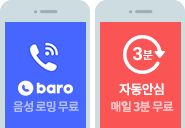
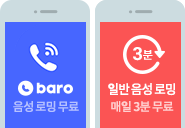
Web Contents Merge

Changed region(s): [[0.5676, 0.625, 0.9459, 0.75]]

diff --git a/src/client/web-contents/html/sprint/RM_19.html b/src/client/web-contents/html/sprint/RM_19.html
@@ -72,10 +72,10 @@
 										</ul>
 										<div class="tab-contents show gs-orange">
 											<div class="gs-info-wrap">
-												<p class="idpt-gs-title">괌/사이판 여행 대표 요금제1<br><strong>T괌사이판 국내처럼</strong></p>
+												<p class="idpt-gs-title">괌&middot;사이판 여행 대표 요금제1<br><strong>T괌사이판 국내처럼</strong></p><!-- 190521 수정 -->
 												<p class="idpt-gs-txt">※ 19년 1월 17일(목)부터 ‘T로밍 괌사이판패스’가 ‘T괌사이판 국내처럼’으로 명칭이
 												변경 되었습니다.</p>
-												<p class="idpt-gs-txt">괌/사이판에서 지정한 날(시작일)부터 30일 동안, <span>국내 가입 요금제의 기본제공 데이터를
+												<p class="idpt-gs-txt">괌&middot;사이판에서 지정한 날(시작일)부터 30일 동안, <span>국내 가입 요금제의 기본제공 데이터를<!-- 190521 수정 -->
 												그대로 사용</span>하실 수 있는 요금제입니다.</p>
 												<p class="idpt-gs-point">출국 후 가입해도 동일하게 이용하실 수 있습니다.</p>
 												<ul class="idpt-gs-list">
@@ -88,14 +88,14 @@
 													<li class="gs-list-02">
 													<div>
 														<p class="gs-list-title">음성</p>
-														<p class="gs-list-txt">baro 이용 시 음성 로밍 무료(단, 제3국 발신 제외)</p>
+														<p class="gs-list-txt">baro 통화 이용 시 음성 로밍 무료(단, 제3국 발신 제외)</p><!-- 190521 수정(baro 통화 수정) -->
 														<p class="gs-list-refer">※ 일반 음성 로밍 이용 시 매일 3분 무료</p>
 													</div>
 													</li>
 													<li class="gs-list-03">
 													<div>
 														<p class="gs-list-title">문자</p>
-														<p class="gs-list-txt">SMS/MMS 기본제공</p>
+														<p class="gs-list-txt">SMS&middot;MMS 기본제공</p><!-- 190521 수정 -->
 													</div>
 													</li>
 												</ul>
@@ -128,13 +128,13 @@
 														속도로 계속 이용</strong>
 													</td>
 													<td>
-														<strong>데이터 사용량/속도 제한 없이 완전 무제한으로 이용</strong>
+														<strong>데이터 사용량&middot;속도 제한 없이 완전 무제한으로 이용</strong><!-- 190521 수정 -->
 													</td>
 												</tr>
 												<tr>
 													<th scope="row">음성통화</th>
 														<td colspan="3">
-														<strong>baro를 이용하면 로밍 음성통화 무료(단, 제3국 발신
+														<strong>baro 통화를 이용하면 로밍 음성통화 무료(단, 제3국 발신<!-- 190521 수정(baro 통화 수정) -->
 														제외)</strong><br><span style="font-size:11px;color:#666">※
 														<strong>일반 로밍 음성통화를 이용할 경우 매일 3분 무료 통화</strong> 제공, 이후
 														<strong>1.98원/초(국내 통화요금과 같음)</strong></span>
@@ -143,7 +143,7 @@
 												<tr>
 													<th scope="row">문자</th>
 														<td colspan="3">
-														SMS/MMS <strong>기본제공</strong>
+														SMS&middot;MMS <strong>기본제공</strong><!-- 190521 수정 -->
 													</td>
 												</tr>
 												</tbody>
@@ -154,8 +154,8 @@
 										</div>
 										<div class="tab-contents gs-red">
 											<div class="gs-info-wrap">
-												<p class="idpt-gs-title">괌/사이판 여행 대표 요금제2<br><strong>T괌사이판 5천원</strong></p>
-												<p class="idpt-gs-txt">괌/사이판에서 국내 가입 요금제의 데이터를 쓰고 싶지 않거나, 남은 데이터가 없는 고객님을 위해,
+												<p class="idpt-gs-title">괌&middot;사이판 여행 대표 요금제2<br><strong>T괌사이판 5천원</strong></p><!-- 190521 수정 -->
+												<p class="idpt-gs-txt">괌&middot;사이판에서 국내 가입 요금제의 데이터를 쓰고 싶지 않거나, 남은 데이터가 없는 고객님을 위해,<!-- 190521 수정 -->
 												<span>10일 동안 5,000원(부가세 포함)으로 매일 LTE/3G 데이터 500MB(다 쓰면 속도제어)</span>를 저렴하게
 												사용하실 수 있는 요금제입니다.</p>
 												<ul class="idpt-gs-list">
@@ -168,14 +168,14 @@
 													<li class="gs-list-02">
 														<div>
 															<p class="gs-list-title">음성</p>
-															<p class="gs-list-txt">baro 이용 시 음성 로밍 무료(단, 제3국 발신 제외)</p>
+															<p class="gs-list-txt">baro 통화 이용 시 음성 로밍 무료(단, 제3국 발신 제외)</p><!-- 190521 수정(baro 통화 수정) -->
 															<p class="gs-list-refer">※ 일반 음성 로밍 이용 시 매일 3분 무료</p>
 														</div>
 													</li>
 													<li class="gs-list-03">
 														<div>
 															<p class="gs-list-title">문자</p>
-															<p class="gs-list-txt">SMS/MMS 기본제공</p>
+															<p class="gs-list-txt">SMS&middot;MMS 기본제공</p><!-- 190521 수정 -->
 														</div>
 													</li>
 												</ul>
@@ -203,12 +203,12 @@
 												<tr>
 													<th scope="row">음성통화</th>
 														<td>
-														<strong>baro를 이용하면 로밍 음성통화 무료(단, 제3국 발신 제외)</strong><br><span style="font-size:11px;color:#666">※ <strong>일반 로밍 음성통화를 이용할 경우 매일 3분 무료 통화</strong> 제공, 이후 <strong>1.98원/초(국내 통화요금과 같음)</strong></span>
+														<strong>baro 통화를 이용하면 로밍 음성통화 무료(단, 제3국 발신 제외)</strong><br><span style="font-size:11px;color:#666">※ <strong>일반 로밍 음성통화를 이용할 경우 매일 3분 무료 통화</strong> 제공, 이후 <strong>1.98원/초(국내 통화요금과 같음)</strong></span><!-- 190521 수정(baro 통화 수정) -->
 													</td>
 												</tr>
 												<tr>
 													<th scope="row">문자</th>
-													<td>SMS/MMS <strong>기본제공</strong></td>
+													<td>SMS&middot;MMS <strong>기본제공</strong></td><!-- 190521 수정 -->
 												</tr>
 												</tbody>
 												</table>

diff --git a/src/client/web-contents/html/sprint/HO_04_01_02_03.html b/src/client/web-contents/html/sprint/HO_04_01_02_03.html
@@ -1,0 +1,116 @@
+<!DOCTYPE html>
+<html lang="ko">
+<head>
+    <meta http-equiv="Content-Type" content="text/html; charset=UTF-8" />
+    <meta name="viewport" content="width=device-width, initial-scale=1.0, maximum-scale=1.0, minimum-scale=1.0, user-scalable=no" />
+    <meta name="apple-mobile-web-app-capable" content="yes" />
+    <meta name="apple-mobile-web-app-status-bar-style" content="black" />
+    <meta name="format-detection" content="telephone=no, address=no, email=no" />
+    <link rel="shortcut icon" href="/img/common/favicon.ico" />
+    <link rel="shortcut icon" href="/img/common/favicon.png" />
+    <link rel="apple-touch-icon" href="/img/common/favicon.png" />
+    <meta name="description" content="페이지설명" />
+    <meta name="keywords" content="서비스키워드" />
+    <meta property="og:title" content="SKT 홈페이지" />
+    <meta property="og:site_name" content="SKT" />
+    <meta property="og:image" content="/image/common/skt_facebook.jpg" />
+    <meta property="og:description" content="SKT framework" />
+    <title>SKT</title>
+    <link rel="stylesheet" type="text/css" href="/css/common.css" media="all" /><!-- [C] 공통 스타일 -->
+    <link rel="stylesheet" type="text/css" href="/css/layout.css" media="all" /><!-- [C] 박스 모델 -->
+    <link rel="stylesheet" type="text/css" href="/css/widgets.css" media="all" /><!-- [C] 기능별 위젯 -->
+    <link rel="stylesheet" type="text/css" href="/css/components.css" media="all" /><!-- [C] 단락별 컴퍼넌트 -->
+    <script type="text/javascript" src="/lib/jquery-1.12.3.min.js"></script><!--[C] jquery API-->
+    <script type="text/javascript" src="/lib/handlebars-v4.0.5.js"></script><!--[C] handlebars tmpl API-->
+    <script type="text/javascript" src="/lib/slick.js"></script><!--[C] slick API -->
+    <script type="text/javascript" src="/js/$vars.js"></script><!--[C] 전역 변수 -->
+    <script type="text/javascript" src="/js/common.js"></script><!--[C] 공통 기능 -->
+    <script type="text/javascript" src="/js/widgets.js"></script><!--[C] 기능별 위젯 -->
+    <script type="text/javascript" src="/js/chart.js"></script><!-- [C] 차트 -->
+</head>
+<body>
+    <!-- #skip_navigation -->
+    <div id="skipNav" class="skip_navi">
+        <ul>
+            <li><a href="#contents">본문 바로가기</a></li>
+        </ul>
+    </div>
+    <!--// #skip_navigation -->
+    <div class="wrap">
+        <!-- #header -->
+        <div id="header" class="header-wrap">
+        </div>
+        <!--// #header -->
+        <!-- #contents -->
+        <div id="contents" class="container-wrap">
+            <div class="container">
+            </div>
+        </div>
+        <!--// #contents -->
+		<!-- .popup hbs -->
+		<div class="popup-page tw-popup"><!-- 하단에 fixed 버튼으로 여백이 필요할때 .fixed-bottom 기본60여백 / 높이 30단위 class 지원 .h30, .h60, .h90 ... -->
+			<!-- #header -->
+			<div class="header-wrap">
+				<div class="page-header">
+					<div class="header-ti">
+                        <h1>대상 매장</h1>
+                    </div>
+				</div>
+			</div>
+			<!--// #header -->
+			<!-- .container-wrap -->
+			<div class="container-wrap">
+				<div class="container">
+					<hr class="cont-sp type1" aria-hidden="true">
+
+					<!-- cont-box -->
+					<div class="cont-box nogaps-hoz">
+						<!-- .shop-info -->
+						<div class="shop-info">
+							<!-- .shop-txt -->
+							<div class="shop-txt">
+								<ul>
+									<li>
+										<dl class="type02">
+											<dt>신사대리점 직영점</dt>
+											<dd>서울시 중구 만리재로 175, 상가2동 102호<br />(만리동 2가 37-2)<button class="bt-tel"><span role="img" class="blind">매장으로 전화하기</span></button></dd>
+										</dl>
+									</li>
+									<li>
+										<dl class="type02">
+											<dt>에스알대리점 모란직영점(수진-태평점)</dt>
+											<dd>서울 관악구 관악로 201<br />(봉천동 859-40)<button class="bt-tel"><span role="img" class="blind">매장으로 전화하기</span></button></dd>
+										</dl>
+									</li>
+									<li>
+										<dl class="type02">
+											<dt>아이티모바일대리점 수원탑동점</dt>
+											<dd>서울시 양천구 목동동로 379, 106호<br />(목동 907-17)<button class="bt-tel"><span role="img" class="blind">매장으로 전화하기</span></button></dd>
+										</dl>
+									</li>
+								</ul>
+							</div>
+							<!-- // .shop-txt -->
+						</div>
+						<!-- // .shop-info -->
+					</div>
+					<!-- // cont-box -->
+
+					<!-- .cont-box -->
+					<div class="cont-box nogaps noborder">
+						<div class="bt-more bg-none">
+							<button role="button">더 보기</button>
+						</div>
+					</div>
+					<!-- // .cont-box -->
+				</div>
+			</div>
+            <!--// .container-wrap -->
+            <!-- .popup-closeBtn -->
+            <button class="popup-closeBtn"><span class="blind">팝업 페이지 닫기</span></button>
+            <!--// .popup-closeBtn -->
+		</div>
+		<!--// .popup hbs -->
+    </div>
+</body>
+</html>

diff --git a/src/client/web-contents/html/sprint/mTL1.1.41.html b/src/client/web-contents/html/sprint/mTL1.1.41.html
@@ -1,6 +1,5 @@
 <!DOCTYPE html>
 <html lang="ko">
-
 <head>
     <meta http-equiv="Content-Type" content="text/html; charset=UTF-8" />
     <meta name="viewport" content="width=device-width, initial-scale=1.0, maximum-scale=1.0, minimum-scale=1.0, user-scalable=no" />
@@ -16,25 +15,25 @@
     <meta property="og:site_name" content="SKT" />
     <meta property="og:image" content="/image/common/skt_facebook.jpg" />
     <meta property="og:description" content="SKT framework" />
-    <title>SKT</title>
-    <link rel="stylesheet" type="text/css" href="/css/common.css" media="all" /><!-- [C] 공통 스타일 -->
-    <link rel="stylesheet" type="text/css" href="/css/layout.css" media="all" /><!-- [C] 박스 모델 -->
-    <link rel="stylesheet" type="text/css" href="/css/widgets.css" media="all" /><!-- [C] 기능별 위젯 -->
-    <link rel="stylesheet" type="text/css" href="/css/components.css" media="all" /><!-- [C] 단락별 컴퍼넌트 -->
-    <script type="text/javascript" src="/lib/jquery-1.12.3.min.js"></script><!--[C] jquery API-->
-    <script type="text/javascript" src="/lib/handlebars-v4.0.5.js"></script><!--[C] handlebars tmpl API-->
-    <script type="text/javascript" src="/lib/slick.js"></script><!--[C] iscroll API -->
-    <script type="text/javascript" src="/js/$vars.js"></script><!--[C] 전역 변수 -->
-    <script type="text/javascript" src="/js/common.js"></script><!--[C] 공통 기능 -->
-    <script type="text/javascript" src="/js/widgets.js"></script><!--[C] 기능별 위젯 -->
-    <script type="text/javascript" src="/js/chart.js"></script><!-- [C] 단락별 컴퍼넌트 -->
+    <title>내가고른패키지 이벤트 | T world</title>
+    <style>
+        /*Default set*/
+        html, body, form, div, p, h1, h2, h3, h4, h5, h6, dl, dt, dd, ul, ol, li, fieldset, a, button, input, textarea, table, th, td, figure, hr, i, b {margin:0; padding:0; font-weight:400; -webkit-text-size-adjust:none; font-family:"Apple SD Gothic Neo", "애플 SD 산돌고딕 Neo", "Roboto", "Noto Sans KR",  sans-serif; font-style:normal; }
+        /* 190516 이벤트 공통 CSS */
+        .tod-eventDetail {padding-bottom:1.25rem;}
+        .tod-eventDetail .inner {margin:0.9375rem; padding:1.25rem; border:1px solid #ddd; background:#fff}
+        .tod-eventDetail .evtImg img {width:100%; vertical-align:top}
+        .tod-eventDetail .evtImg > a {display:block}
+        .tod-eventDetail .evtBtnBox {text-align:center; vertical-align:middle; -webkit-box-sizing:border-box; -moz-box-sizing:border-box; box-sizing:border-box; overflow:hidden;}
+        .tod-eventDetail .evtBtnL, .tod-eventDetail .evtBtnL2, .tod-eventDetail .evtBtnL.btnWhite, .tod-eventDetail .evtBtnL.btnWhite2 {display:inline-block; width:100%; height:2.1875rem; line-height:2.1875rem; font-size:1.0625rem; letter-spacing:-0.0625rem; text-decoration:none !important;}
+        .tod-eventDetail .evtBtnRed {background:#ea002c; border: 0 none; color:#fff !important;}
+        .tod-eventDetail .blind {position:absolute !important; width:1px; height:1px; margin:-1px; clip:rect(0,0,0,0); overflow:hidden; color:transparent;}
+    </style>
 </head>
-
-
 <body>
-<div class="tod-eventDetail2" style="padding:0">
+<div class="tod-eventDetail" style="padding:0">
     <h1 class="blind">내가고른패키지 이벤트</h1>
-    <div class="tod-evtImg tod-psr tod-center" style="padding:0 0 45px">
+    <div class="evtImg" style="position:relative; padding:0 0 2.8125rem">
         <div>
             <img src="/img/event/img_event_mTL1.1.41_1.png" alt="내가고른패키지 (다음 상세내용 참조)">
             <div class="blind">
@@ -118,8 +117,8 @@
 
         <div style="position:relative;">
             <img src="/img/event/img_event_mTL1.1.34_5.png" alt="T가족모아 결합하면 데이터에 추가혜택까지! 내가고른패키지는, 내가 필요하고 원하는 상품만 골라 한 번에 가입할 수 있고 평균 25%의 파격적인 할인혜택을 받을 수 있습니다! 지금 바로, SK텔레콤 매장에 방문하셔서 상담을 받아보세요!">
-            <div class="tod-btnBox" style="position:absolute;right:0;bottom:0;width:100%;padding:0 15px;text-align:center">
-                <a href="tel:18000212" class="tod-btnL tod-btnRed" style="width:100%;font-size:12px;font-weight:bold"><span class="tod-fBd">상담하기(1800-0212)</span></a>
+            <div class="evtBtnBox" style="position:absolute;right:0;bottom:0;width:100%;padding:0 0.9375rem;text-align:center">
+                <a href="tel:18000212" class="evtBtnL evtBtnRed" style="width:100%;font-size:0.75rem;font-weight:bold"><span>상담하기(1800-0212)</span></a>
             </div>
         </div>
 

diff --git a/src/client/web-contents/html/sprint8/RM_16_01.html b/src/client/web-contents/html/sprint8/RM_16_01.html
@@ -163,7 +163,7 @@
                                             <div class="acco-cont">
                                                 <ul class="list-dot">
                                                 	<!-- 190521 수정 -->
-                                                    <li class="list"><strong class="fColor1">&lt;baro 무료 체험 프로모션!&gt;</strong><br>데이터 로밍 요금제를 가입하지 않고 해외에 가셔도 baro를 무료로 체험하실 수 있습니다.<br>해외에서 한국으로 약 20분 동안의 무료 통화를 체험해보세요.<br><span class="fColor1">*데이터 10MB(400kbps 이하 속도)가 제공되며 다 쓰면 데이터는 자동으로 차단됩니다.</span><br><br><strong class="fColor1">※ 프로모션 기간: 2019년 4월 2일(화)~2019년 6월 30일(일)</strong></li>
+                                                    <li class="list"><strong class="fColor1">&lt;baro 무료 체험 프로모션!&gt;</strong><br>데이터 로밍 요금제를 가입하지 않고 해외에 가서도 baro를 무료로 체험하실 수 있습니다.<br>해외에서 한국으로 약 20분 동안의 무료 통화를 체험해보세요.<br><span class="fColor1">*데이터 10MB(400kbps 이하 속도)가 제공되며 다 쓰면 데이터는 자동으로 차단됩니다.</span><br><br><strong class="fColor1">※ 프로모션 기간: 2019년 4월 2일(화)~2019년 6월 30일(일)</strong></li>
                                                     <li class="list">로밍 중 데이터 사용을 원치 않으시면 데이터 로밍 차단 부가서비스를 가입해주세요.</li>
                                                     <!-- // 190521 수정 -->                                                    
                                                 </ul>
@@ -337,7 +337,7 @@
                                                  <ul class="list-dot">
                                                     <li class="list">데이터로밍은 전세계 패킷(0.5KB)당 0.275원(부가세 포함)으로 단일화되었습니다.</li>
                                                     <!-- 190521 수정 -->
-                                                    <li class="list"><strong class="fColor1">&lt;baro 무료 체험 프로모션!&gt;</strong><br>데이터 로밍 요금제를 가입하지 않고 해외에 가셔도 baro를 무료로 체험하실 수 있습니다.<br>해외에서 한국으로 약 20분 동안의 무료 통화를 체험해보세요.<br><span class="fColor1">*데이터 10MB(400kbps 이하 속도)가 제공되며 다 쓰면 데이터는 자동으로 차단됩니다.</span><br><br><strong class="fColor1">※ 프로모션 기간: 2019년 4월 2일(화)~2019년 6월 30일(일)</strong></li>
+                                                    <li class="list"><strong class="fColor1">&lt;baro 무료 체험 프로모션!&gt;</strong><br>데이터 로밍 요금제를 가입하지 않고 해외에 가서도 baro를 무료로 체험하실 수 있습니다.<br>해외에서 한국으로 약 20분 동안의 무료 통화를 체험해보세요.<br><span class="fColor1">*데이터 10MB(400kbps 이하 속도)가 제공되며 다 쓰면 데이터는 자동으로 차단됩니다.</span><br><br><strong class="fColor1">※ 프로모션 기간: 2019년 4월 2일(화)~2019년 6월 30일(일)</strong></li>
                                                     <li class="list">전세계 주요국에서 baro OnePass 300 요금제를 이용하실 수 있습니다. 해당 국가 여행 시 데이터로밍이 필요할 경우 요금제를 가입하여 이용하시면 안심하고 저렴하게 이용하실 수 있습니다.</li>
                                                     <!-- // 190521 수정 -->
                                                 </ul>

diff --git a/src/client/web-contents/html/sprint8/RM_16_04.html b/src/client/web-contents/html/sprint8/RM_16_04.html
@@ -143,7 +143,7 @@
                                                 	<!-- 190521 수정  -->
                                                     <li class="mt0">데이터로밍 요금제 전세계 패킷당 0.275원!! (부가세 포함, 1패킷 = 512byte = 0.5kbyte)</li>                                                    
                                                     <li>대상: 전체 데이터로밍 이용 가능 국가, 전체 휴대폰 및 무선 인터넷 서비스 대상</li>
-                                                    <li><strong class="fColor1">&lt;baro 무료 체험 프로모션!&gt;</strong><br>데이터 로밍 요금제를 가입하지 않고 해외에 가셔도 baro를 무료로 체험하실 수 있습니다.<br>해외에서 한국으로 약 20분 동안의 무료 통화를 체험해보세요.<br><span class="fColor1">*데이터 10MB(400kbps 이하 속도)가 제공되며 다 쓰면 데이터는 자동으로 차단됩니다.</span><br><br><strong class="fColor1">※ 프로모션 기간: 2019년 4월 2일(화)~2019년 6월 30일(일)</strong></li>                                              
+                                                    <li><strong class="fColor1">&lt;baro 무료 체험 프로모션!&gt;</strong><br>데이터 로밍 요금제를 가입하지 않고 해외에 가서도 baro를 무료로 체험하실 수 있습니다.<br>해외에서 한국으로 약 20분 동안의 무료 통화를 체험해보세요.<br><span class="fColor1">*데이터 10MB(400kbps 이하 속도)가 제공되며 다 쓰면 데이터는 자동으로 차단됩니다.</span><br><br><strong class="fColor1">※ 프로모션 기간: 2019년 4월 2일(화)~2019년 6월 30일(일)</strong></li><!-- 190521 수정(추가) -->                                              
                                                     <!-- // 190521 수정 -->
                                                 </ul>
                                                 <!-- 190521 삭제 -->

diff --git a/src/client/web-contents/html/sprint8/RM_16_02_02.html b/src/client/web-contents/html/sprint8/RM_16_02_02.html
@@ -196,7 +196,7 @@
                                                                                <p class="txt">메뉴 &gt; T서비스 &gt; 글로벌 로밍 &gt; 한국(SK텔레콤)</p>
                                                                            </li>
                                                                        </ul>
-                                                                       <!-- 2019.03.20 삭제 -->
+                                                                       <!-- 190521 삭제 -->
                                                                        <!-- <div class="loaming-visual">
                                                                             <img src="/img/product/vi-set-cellphone.png" alt="TBD">
                                                                         </div>                                                                       
@@ -209,7 +209,7 @@
                                                                         <div class="inner-group type3 mt8">
                                                                             <p class="inner-list fs12"><span class="bullet">*</span>인도는 A/B 지역 구분이 없는 특수한 경우입니다. 한국으로 귀국 후 반드시 휴대폰을 ‘한국’으로 재설정해 주세요.. 로밍 설정 이후 휴대폰이 자동으로 꺼졌다 켜지는지 꼭 확인해 주세요.</p>
                                                                         </div> -->
-                                                                        <!--// 2019.03.20 삭제 -->
+                                                                        <!--// 190521 삭제 -->
                                                                     </div>
                                                                 </li>
                                                             </ul>
